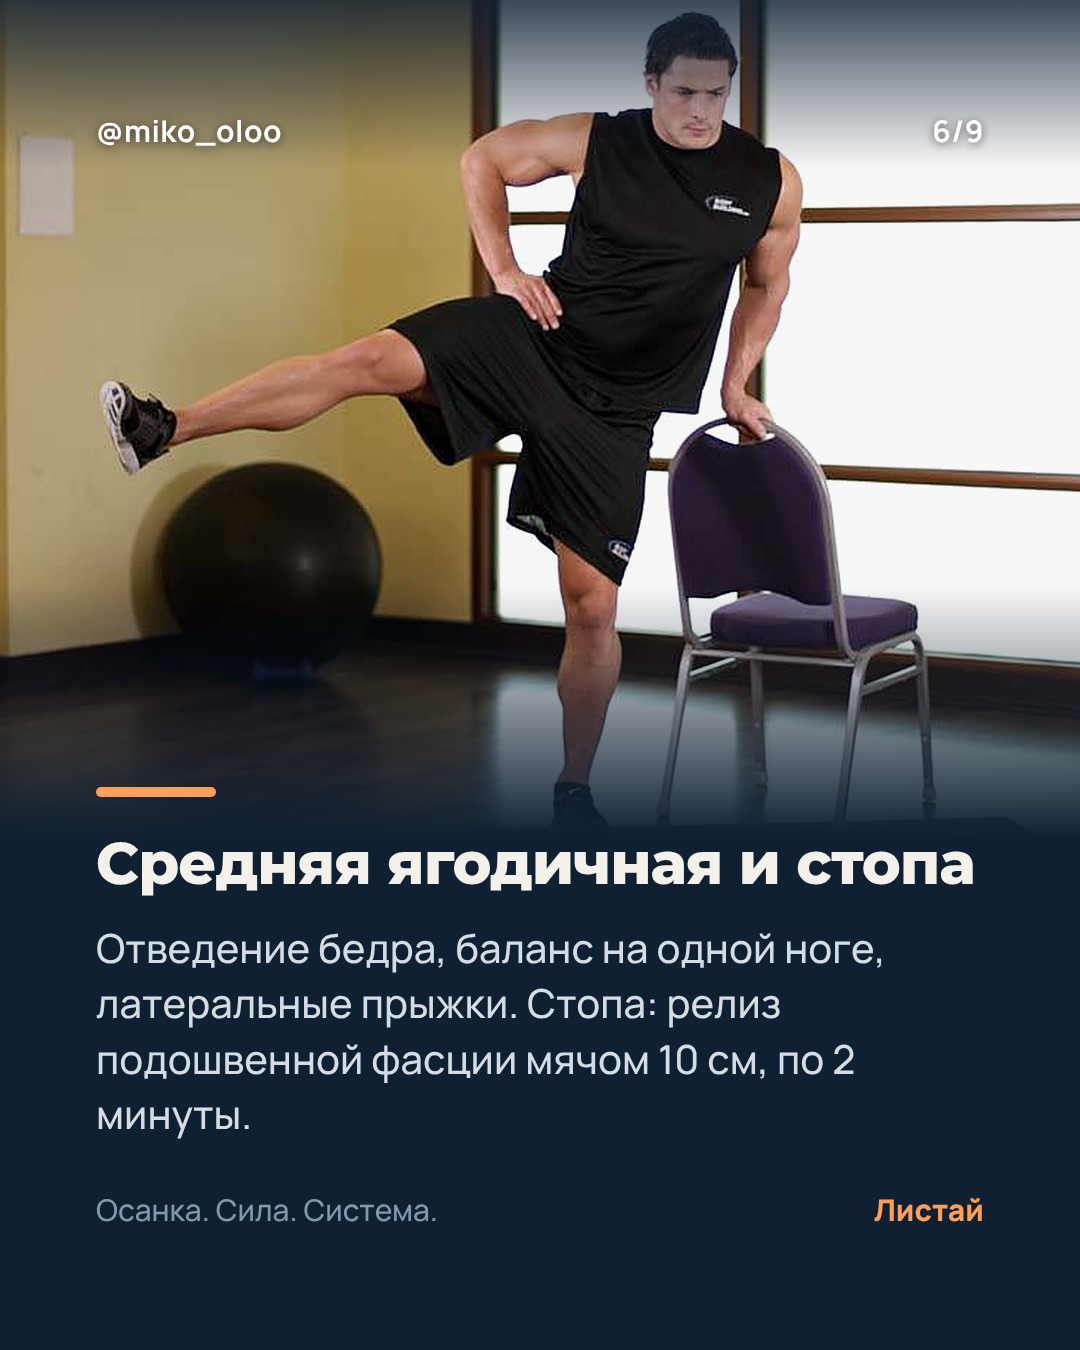
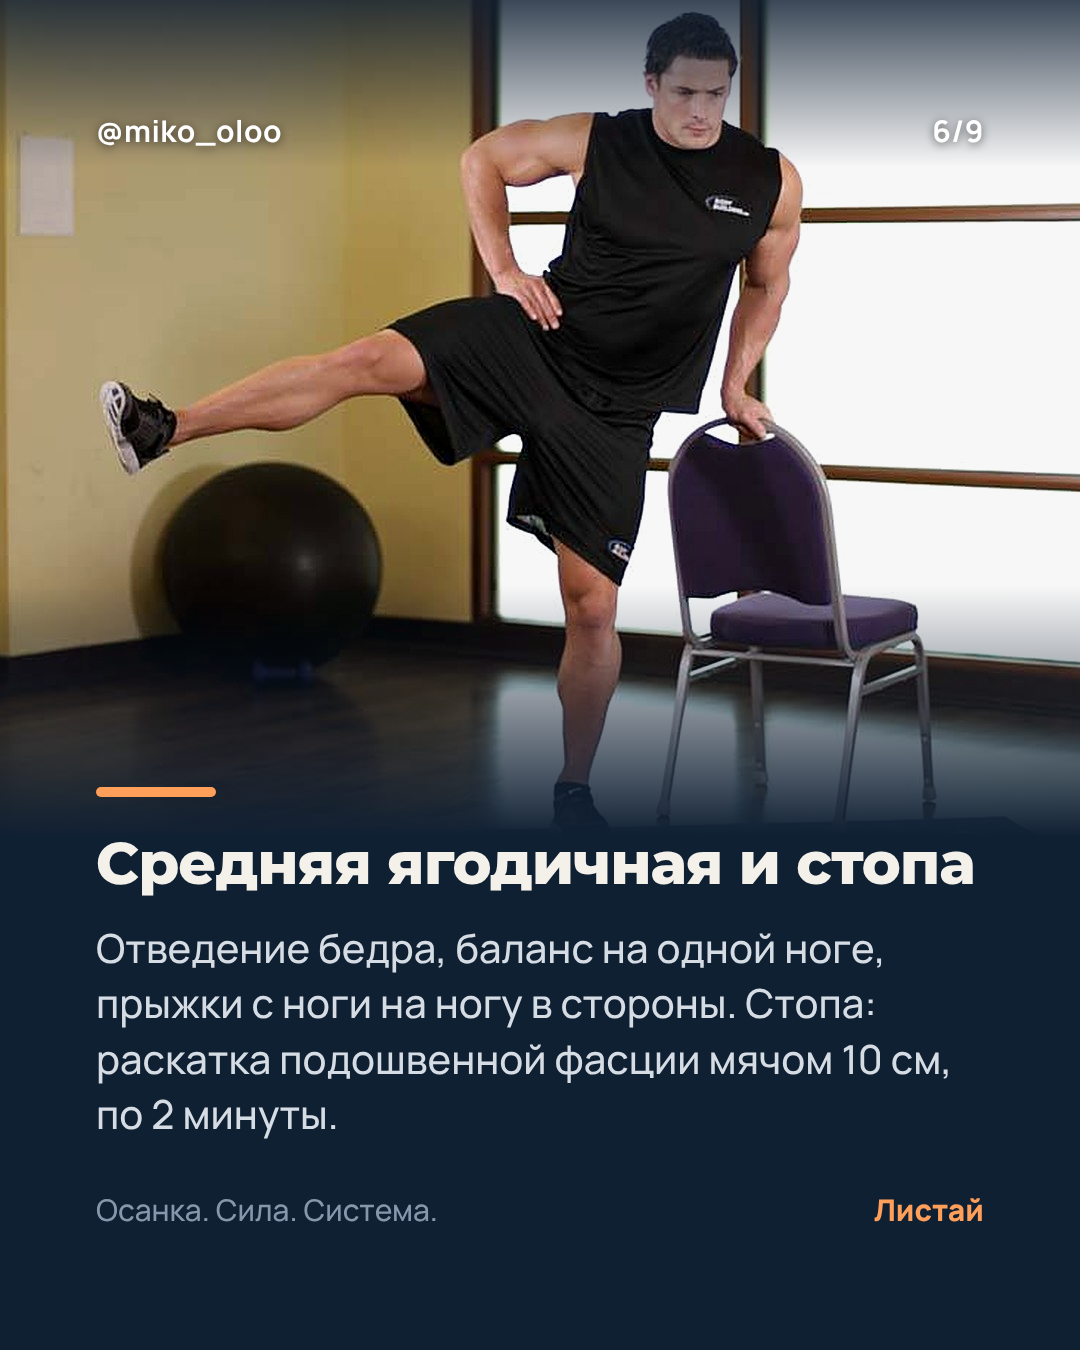
Карусели: заимствованные термины переведены на русский (передний наклон таза, переднее положение головы, сведение лопаток), хук без сленга
Claude-Session: https://claude.ai/code/session_014b6iEBjPGyacsH4fnBbVwQ

Changed region(s): [[0.0917, 0.7156, 0.8861, 0.84]]

diff --git a/.claude/MIKAEL_DICTIONARY.md b/.claude/MIKAEL_DICTIONARY.md
@@ -37,6 +37,7 @@
 | 23.10 | Брат, у тебя картинки не в тему. Про утиную поясницу, может на первом слайде она и должна быть. Вот фото клиента сбоку. Увольняй этих агентов и того, кто их нанял | Картинка должна показывать тему слайда, а не украшать. Живые стоковые фото не по теме хуже, чем ничего | Главный критерий картинки: без текста понятно, о чём слайд. Обложка показывает проблему из хука. Свои фото и фото клиентов важнее стоков. Уволены агенты по картинкам и team-lead, наняты hr-director, visual-lead, slide-builder, visual-qa |
 | 23.10 | Заменяй. Добро. По всем остальным слайдам поднажми, сделай чётенько. Уже без одобрения можешь сразу менять, а то лимитов не хватит | Разрешил фото клиента и замену постов в Metricool без согласования | Правки уже одобренных каруселей вносить и заменять в Metricool сразу, потом отчитаться. Экономить лимит: меньше агентов, меньше передач |
 | 26.10 | Мне не нравится, как ты описываешь особенности осанки, слишком по-деревенски. Больше компетентности и профессионализма, но понятно тому, кто хочет заняться осанкой (они уже более-менее разбираются в терминах) | Нужен тон тренера-специалиста, а не бытовой язык | В контенте профессиональные термины (антеверсия, гиперлордоз, кифоз, протракция, ретракция лопаток, подошвенная фасция) короткими ясными фразами. Бытовые образы только в хуке обложки |
+| 26.10 | Кто говорит "сохранёнки"? Впервые слышу. Много терминов добавил: одни оставить, другие перевести (антеверсия = передний наклон, протракция = перевод), но без "голова вперёд, таз назад", "выступающий живот" можно | Перебор с латинскими терминами и сленгом | Общеизвестные термины оставляем, заимствованные переводим на русский профессиональный. Сленг не используем |
 | 23.10 | Я очень однообразно выражаюсь, может даже непонятно | Просит догадываться о смысле | Запросы сначала через request-interpreter |
 
 ## Что ему нравится

diff --git a/CLAUDE.md b/CLAUDE.md
@@ -24,7 +24,7 @@
 - Без тире «—» и «–», без «ёлочек» (только обычные кавычки "..."), без «×» (пишем «3 по 10» или «3х10»), без «°», «•», «→».
 - Диапазоны через обычный дефис: 3-5, 1,8-2,2 г.
 - Короткие предложения, без ИИ-штампов.
-- Контент для Instagram: тон тренера-специалиста. Профессиональные термины (антеверсия таза, гиперлордоз, грудной кифоз, протракция головы, ретракция лопаток), но фразы короткие и понятные человеку, который уже немного разбирается. Бытовые образы допустимы только в хуке.
+- Контент для Instagram: тон тренера-специалиста. Общеизвестные термины оставляем (гиперлордоз, кифоз, лордоз), заимствованные переводим на русский профессиональный язык: антеверсия = передний наклон таза, протракция головы = переднее положение головы, ретракция лопаток = сведение лопаток. Бытовое "голова вперёд, таз назад" не пишем, "выступающий живот" можно. Сленг ("сохранёнки") не используем. Бытовые образы допустимы только в хуке.
 - Базы знаний: формат справочника тренера, цифры и правила принятия решений важнее объяснений.
 - Где нужен опыт Микаела, ставим пометку **Нужно от тебя:** и вопрос. Не выдумываем его кейсы и цифры.
 

diff --git a/content/PLAN_2_WEEKS.md b/content/PLAN_2_WEEKS.md
@@ -200,14 +200,14 @@
 - **JSON для рендера:** content/carousels/carousels.json, id `c2_osnovnoe_podsobka`
 
 **Хук (2 строки):**
-Тренируешься по сохранёнкам?
+Тренируешься по роликам из интернета?
 Так прогресс не с чем сравнить. Я меняю всё, кроме одного упражнения.
 
 **Слайды:**
 
 | Слайд | Заголовок | Текст |
 |---|---|---|
-| 1 | Тренируешься по сохранёнкам? | Так прогресс не с чем сравнить. Я меняю всё, кроме одного упражнения. |
+| 1 | Тренируешься по роликам из интернета? | Так прогресс не с чем сравнить. Я меняю всё, кроме одного упражнения. |
 | 2 | Знаний хватает. Не хватает системы. | Куски информации есть у всех. Нет понимания, как они связаны и что делать, когда всё пошло не по плану. Схема "основное плюс подсобка" отвечает на это. |
 | 3 | Основное выбираю по уровню | Грудь: жим лёжа, жим гантелей или отжимания. Спина: подтягивания с весом, подтягивания или вертикальная тяга. Ноги: присед со штангой, жим ногами или гоблет-присед. Главное, чтобы ты делал его технично и мог расти. |
 | 4 | 4 правила основного | Минимум 4 рабочих подхода. Всегда первым, на свежую голову. На каждой тренировке этой группы. Никогда до отказа. |
